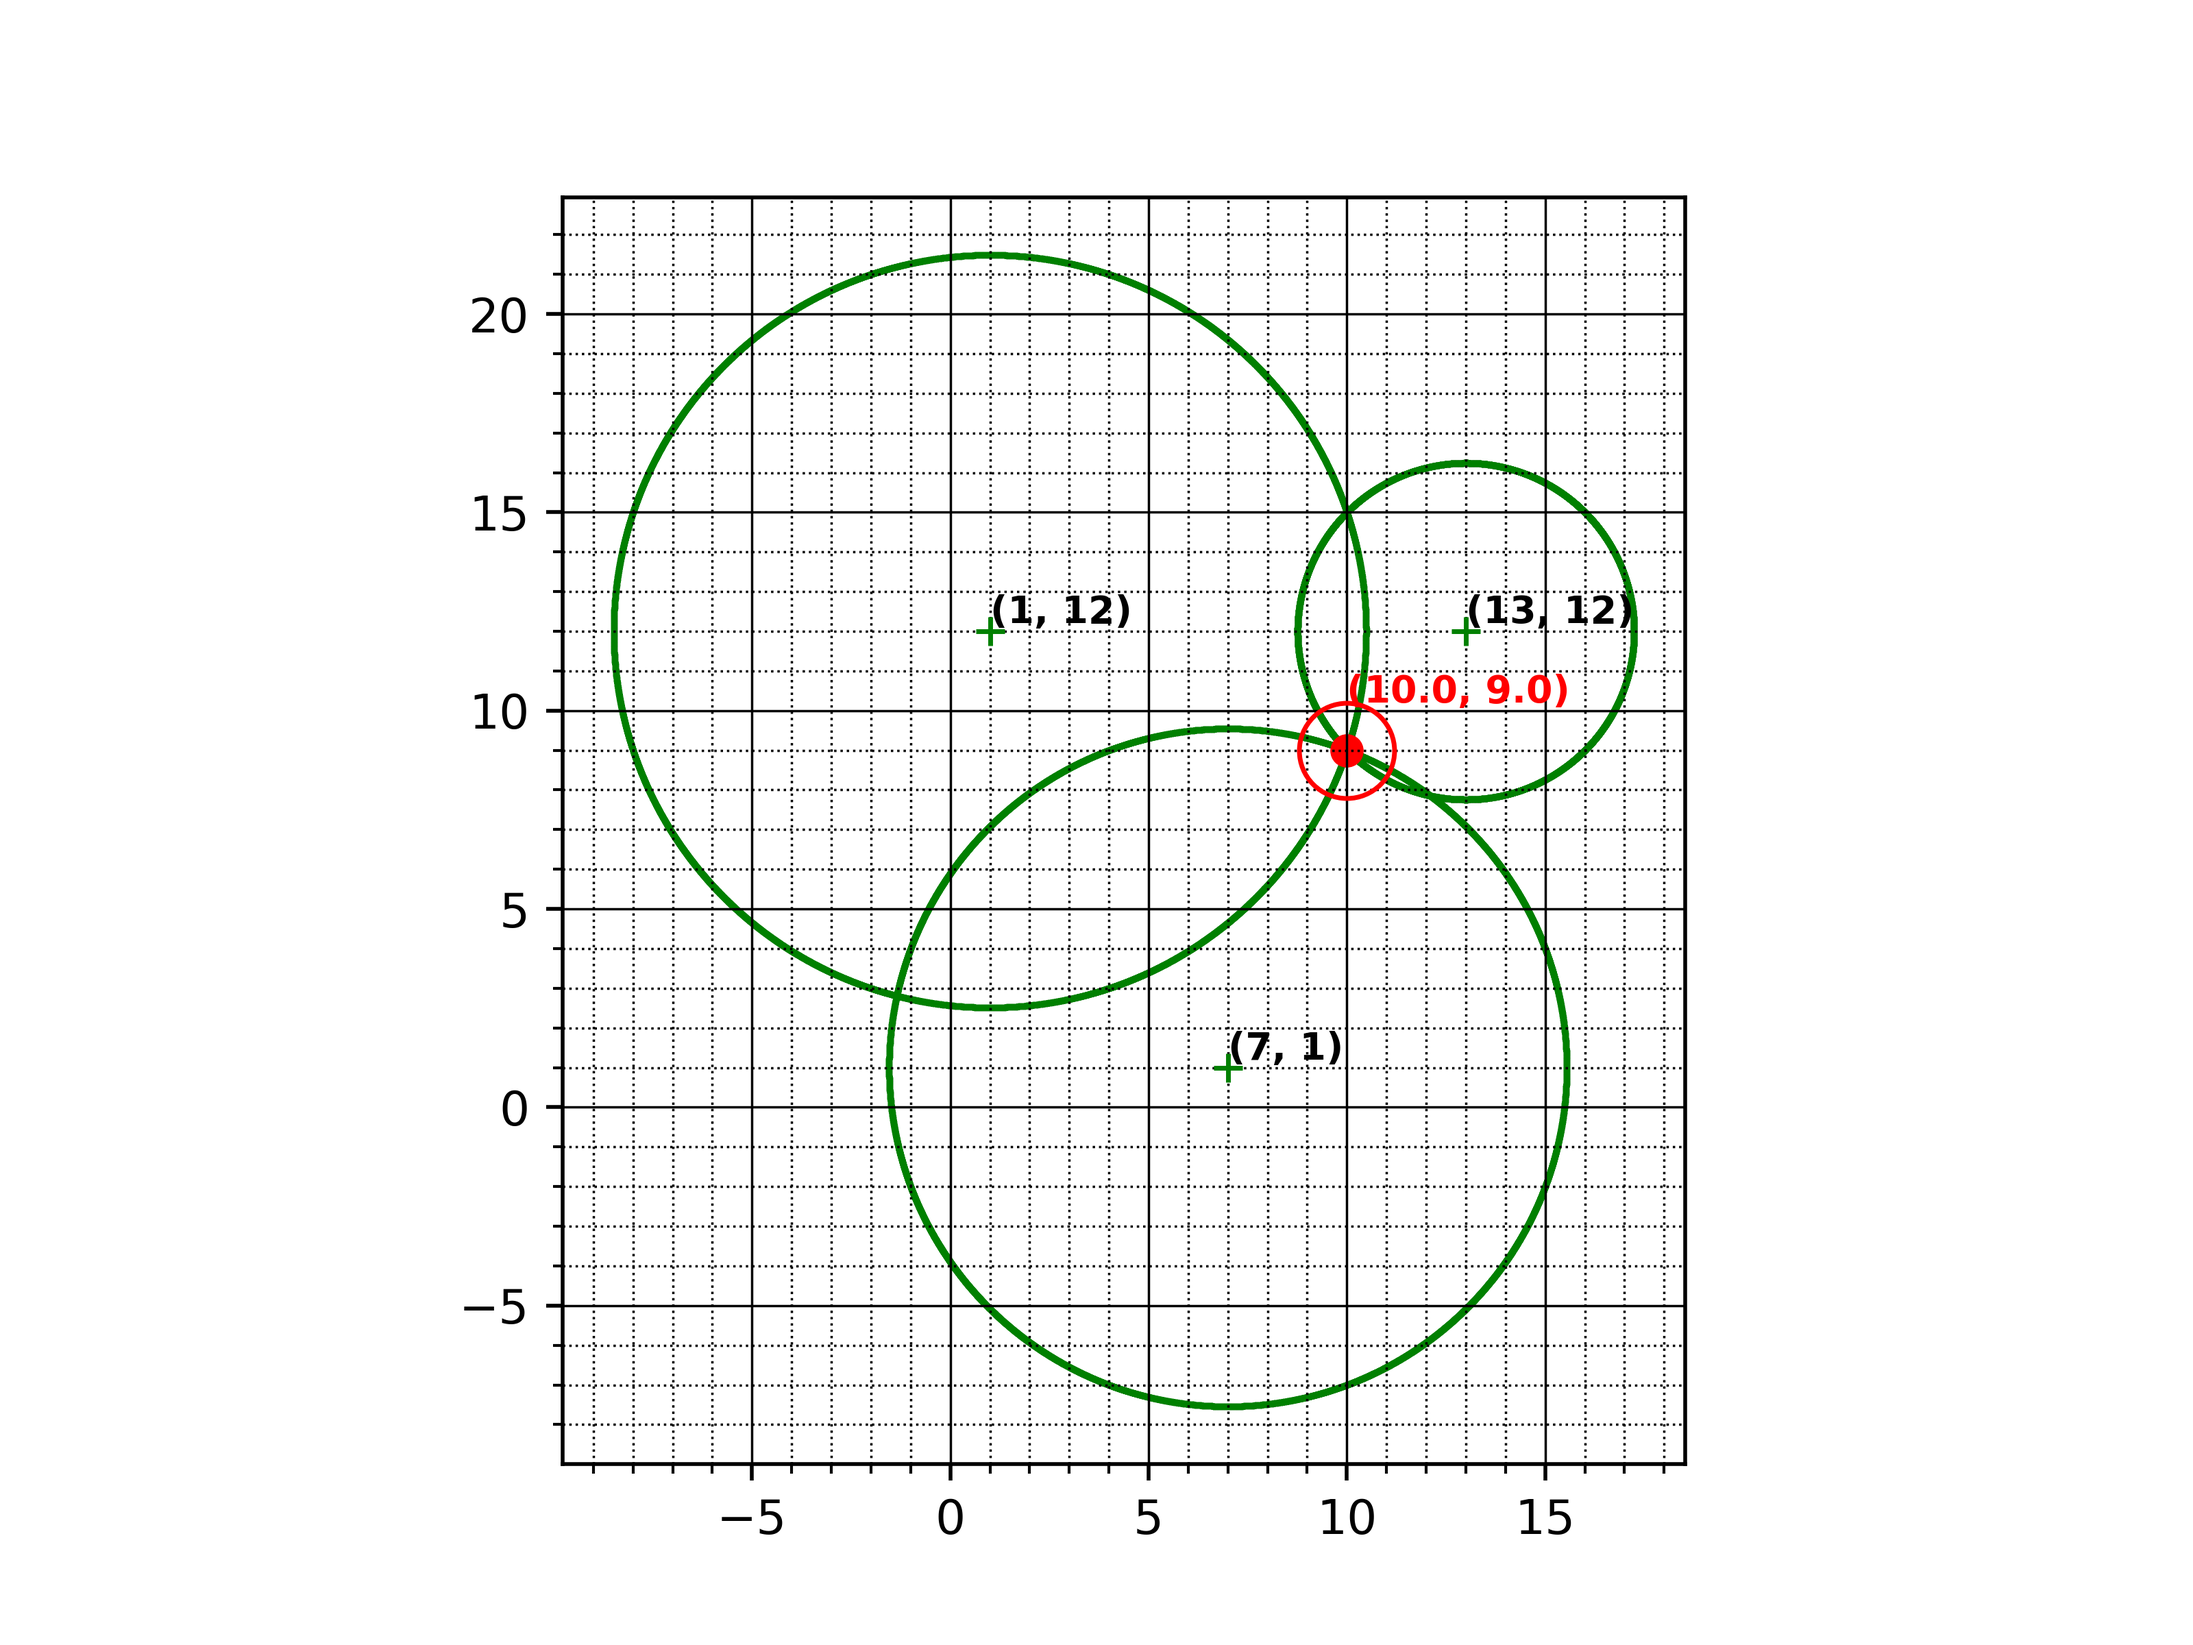
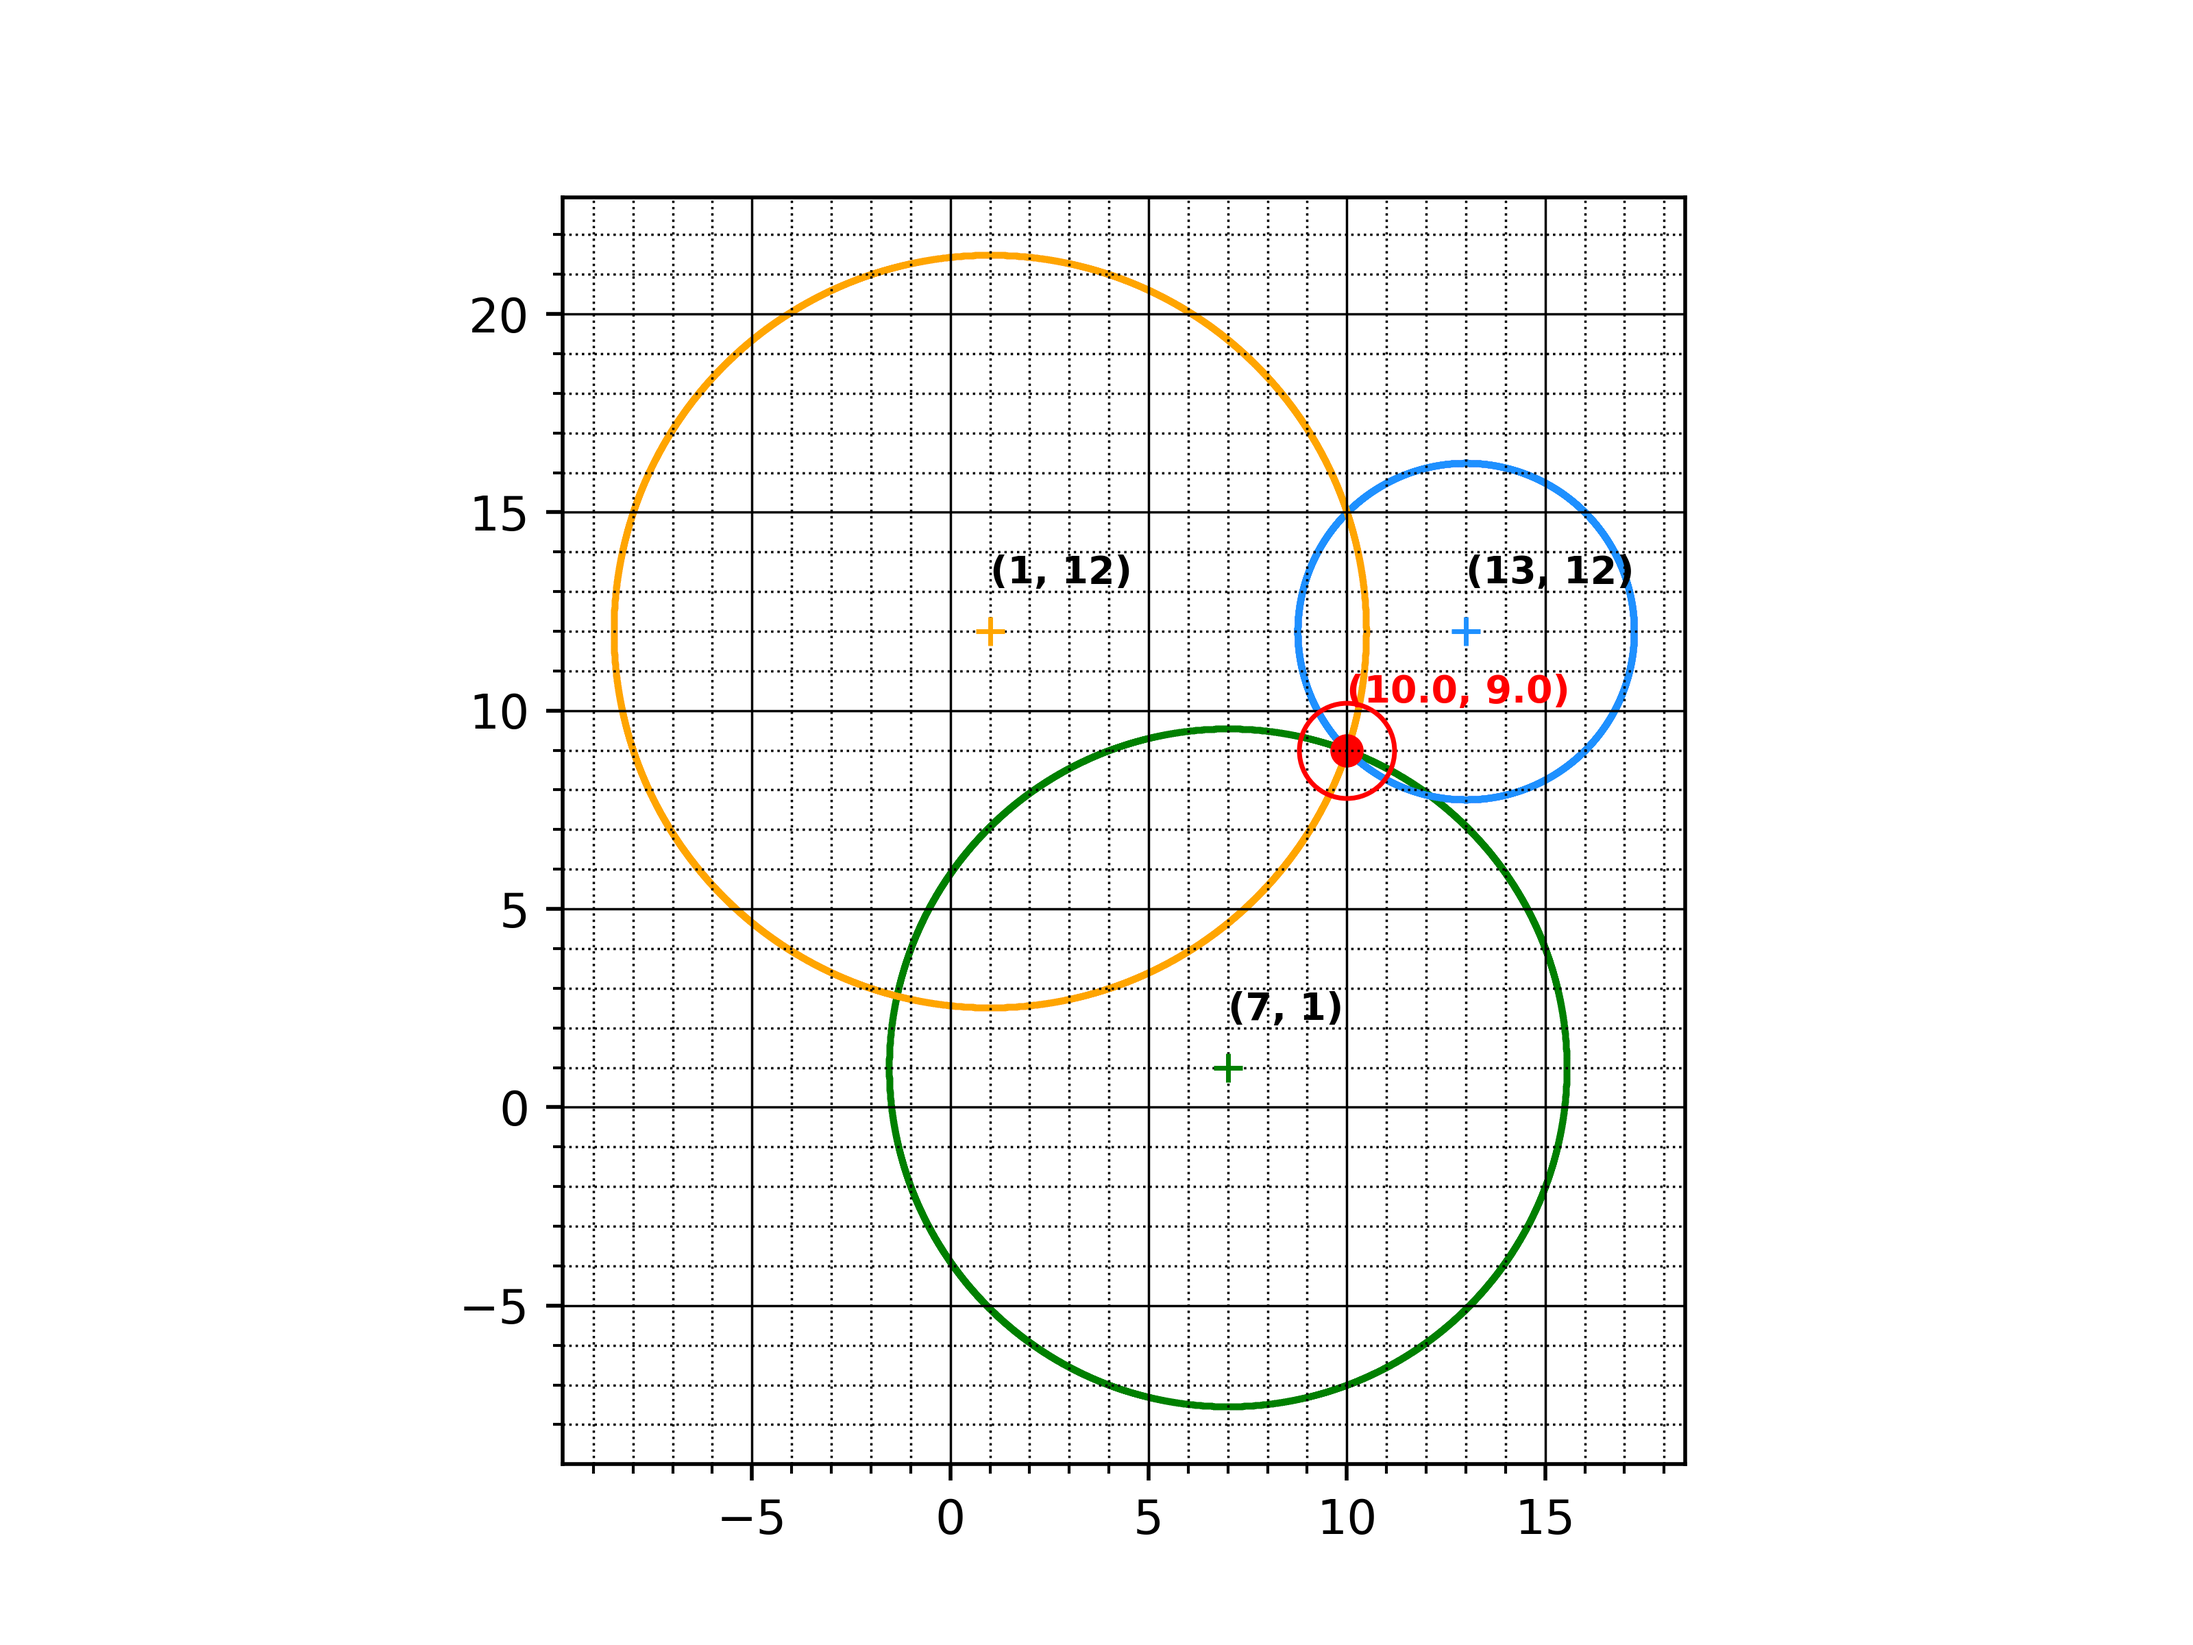
defined circle colors for clearer plotting

diff --git a/localization/trilateration_localization.py b/localization/trilateration_localization.py
@@ -33,8 +33,19 @@ class TrilaterationLocalization:
 
 
     def plot_circles(self, circles:list):
+        #  'circles' input should be a list of tuples
+        #  each tuple should define a circle: (radius, center_x, center_y)
 
-        for circle in circles:
+
+        #  define circle colors for clearer plotting
+        colors={
+            0: 'green',
+            1: 'dodgerblue',
+            2: 'orange'
+        }
+
+
+        for idx, circle in enumerate(circles):
 
             radius = circle[0]
             center_x = circle[1]
@@ -47,10 +58,9 @@ class TrilaterationLocalization:
             circ_x = radius*np.cos(theta)+center_x
             circ_y = radius*np.sin(theta)+center_y
 
-            self.ax.plot(center_x, center_y, marker='+', color='green')
-            self.ax.scatter(circ_x, circ_y, color='green', s=0.1)
-
-            self.ax.text(center_x, center_y, f'({center_x}, {center_y})', ha='left', va='bottom', size=8, weight='bold')
+            self.ax.plot(center_x, center_y, marker='+', color=colors[idx])
+            self.ax.scatter(circ_x, circ_y, color=colors[idx], s=0.1)
+            self.ax.text(center_x, center_y+1, f'({center_x}, {center_y})', ha='left', va='bottom', size=8, weight='bold')
 
 
 
@@ -80,3 +90,4 @@ class TrilaterationLocalization:
         self.localize(circles)
 
         plt.savefig(f'localization_figs/test_{title}.png', dpi=500)
+        
